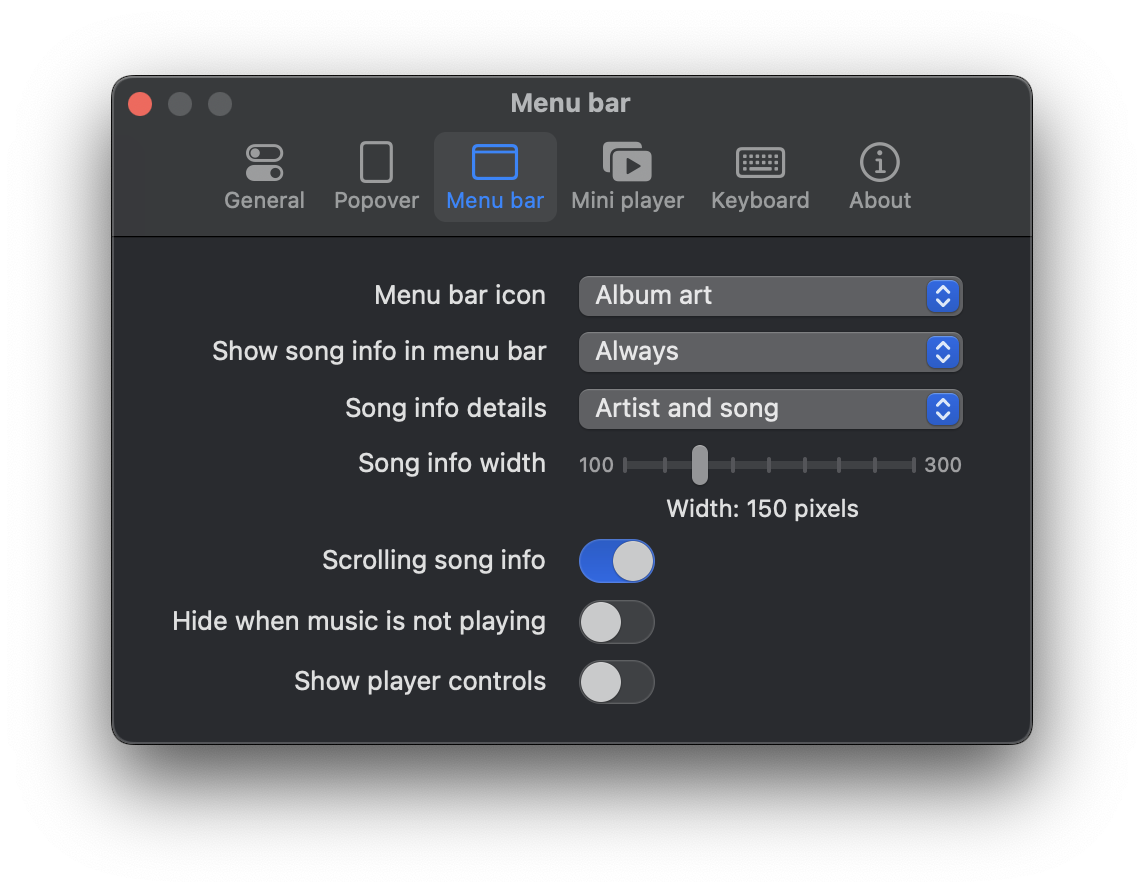
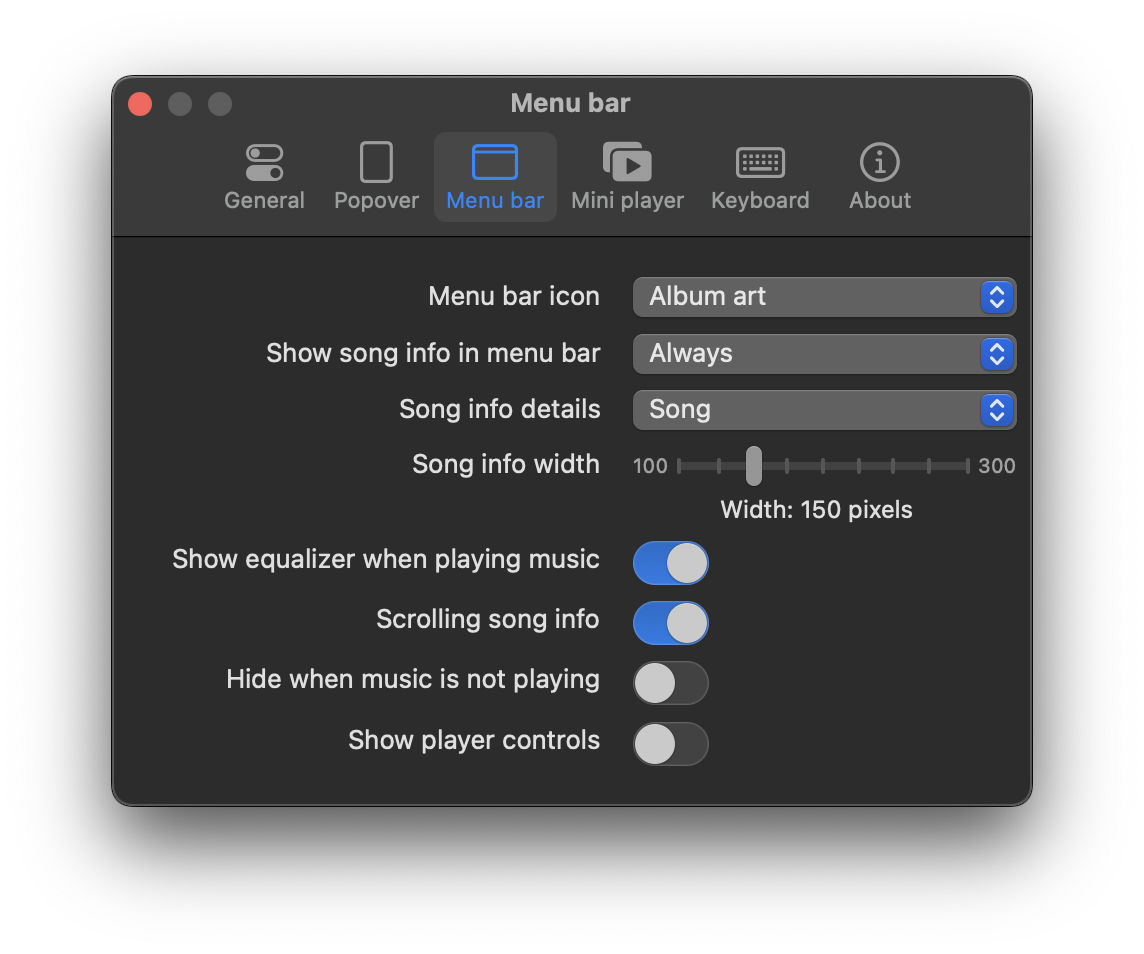
New keyboard shortcut, fixed EQ animation, updated readme

diff --git a/Tuneful/Tuneful.swift b/Tuneful/Tuneful.swift
@@ -209,6 +209,10 @@ class AppDelegate: NSObject, NSApplicationDelegate, NSMenuDelegate {
         KeyboardShortcuts.onKeyUp(for: .changeMusicPlayer) {
             self.changeMusicPlayer()
         }
+        
+        KeyboardShortcuts.onKeyUp(for: .toggleMenuBarItemVisibility) {
+            self.toggleMenuBarItemVisibilityFromShortcut()
+        }
     }
     
     // MARK: - Menu bar
@@ -328,12 +332,7 @@ class AppDelegate: NSObject, NSApplicationDelegate, NSMenuDelegate {
             button.frame = menuBarView.frame
         }
         
-        if hideMenuBarItemWhenNotPlaying && (!playerManager.isRunning || !playerManager.isPlaying) {
-            self.statusBarItem.isVisible = false
-        } else {
-            self.statusBarItem.isVisible = true
-        }
-        
+        self.toggleMenuBarItemVisibility()
         self.statusBarPlaybackManager.updateStatusBarPlaybackItem(playerAppIsRunning: playerAppIsRunning)
         self.statusBarPlaybackManager.toggleStatusBarVisibility()
     }
@@ -344,6 +343,10 @@ class AppDelegate: NSObject, NSApplicationDelegate, NSMenuDelegate {
         } else {
             self.statusBarItem.isVisible = true
         }
+    }
+    
+    @objc func toggleMenuBarItemVisibilityFromShortcut() {
+        self.statusBarItem.isVisible = !self.statusBarItem.isVisible
     }
     
     @objc func menuBarPlaybackControls() {

diff --git a/Tuneful/Views/AudioSpectrumView.swift b/Tuneful/Views/AudioSpectrumView.swift
@@ -42,8 +42,7 @@ class AudioSpectrum: NSView {
             barLayer.position = CGPoint(x: xPosition + barWidth / 2, y: totalHeight / 2)
             barLayer.fillColor = NSColor.white.cgColor
             
-            let randomHeight = CGFloat.random(in: 0.65 ... 0.95) * totalHeight
-            let path = NSBezierPath(roundedRect: CGRect(x: 0, y: CGFloat.random(in: 0.5 ... 3.5), width: barWidth, height: randomHeight),
+            let path = NSBezierPath(roundedRect: CGRect(x: 0, y: CGFloat.random(in: 0.5 ... 3.5), width: barWidth, height: totalHeight),
                                     xRadius: barWidth / 2,
                                     yRadius: barWidth / 2)
             let cgPath = CGMutablePath()

diff --git a/Tuneful/Views/Settings/KeyboardShortcutSettingsView.swift b/Tuneful/Views/Settings/KeyboardShortcutSettingsView.swift
@@ -20,6 +20,7 @@ struct KeyboardShortcutsSettingsView: View {
                         KeyboardShortcuts.Recorder("Previous track:", name: .previousTrack)
                         KeyboardShortcuts.Recorder("Toggle mini player:", name: .showMiniPlayer)
                         KeyboardShortcuts.Recorder("Switch music player:", name: .changeMusicPlayer)
+                        KeyboardShortcuts.Recorder("Show/hide menu bar player:", name: .toggleMenuBarItemVisibility)
                     }
                     .frame(maxWidth: .infinity, alignment: .center)
                 })

diff --git a/Tuneful/Views/OnboardingView.swift b/Tuneful/Views/OnboardingView.swift
@@ -195,6 +195,7 @@ struct Shortcuts: View {
                     KeyboardShortcuts.Recorder("Next track:", name: .previousTrack)
                     KeyboardShortcuts.Recorder("Toggle mini player:", name: .showMiniPlayer)
                     KeyboardShortcuts.Recorder("Switch music player:", name: .changeMusicPlayer)
+                    KeyboardShortcuts.Recorder("Show/hide menu bar player:", name: .toggleMenuBarItemVisibility)
                 }
                 .frame(maxWidth: .infinity, alignment: .center)
                 

diff --git a/Tuneful/ViewModels/StatusBarItemManager.swift b/Tuneful/ViewModels/StatusBarItemManager.swift
@@ -31,7 +31,7 @@ class StatusBarItemManager: ObservableObject {
         
         let mainView = HStack(spacing: 7) {
             if self.statusBarIcon != .hidden || titleWidth == 0 { // Should display icon when there is no menubar text
-                image.frame(width: 18, height: 18).padding(.trailing, 2)
+                image.frame(width: 18, height: 18)
             }
             
             if scrollingTrackInfo && titleWidth != 0 && playerAppIsRunning {

diff --git a/Tuneful/Extensions/KeyboardShortcuts+Extension.swift b/Tuneful/Extensions/KeyboardShortcuts+Extension.swift
@@ -13,4 +13,5 @@ extension KeyboardShortcuts.Name {
     static let playPause = Self("playPause")
     static let showMiniPlayer = Self("showMiniPlayer")
     static let changeMusicPlayer = Self("changeMusicPlayer")
+    static let toggleMenuBarItemVisibility = Self("toggleMenuBarItemVisibility")
 }

diff --git a/README.md b/README.md
@@ -22,6 +22,10 @@
 
 ## Installation
 
+> [!WARNING]
+> This app has not been notarized by Apple and a popup will be shown on first start. Click **Okay**, then go to **Settings > Privacy & Security** and scroll down until you see a button **Open anyway**. You'll have to do this once.
+> If you're running macOS older than Sequoia, right-click on the app icon in Finder and select "Open".
+
 ### Tuneful can be installed using standard installation process
 
 1. Download the latest [releases](https://github.com/martinfekete10/Tuneful/releases/latest/download/Tuneful.dmg)
@@ -31,9 +35,6 @@
 ### Or using Homebrew
 
 `brew install martinfekete10/tap/tuneful`
-
-> [!NOTE]  
-> This app has not been notarized by Apple so a warning will appear when you launch Tuneful for the first time. To open Tuneful, right-click on the app icon in Finder and select "Open".
 
 ## Screenshots
 
@@ -63,9 +64,9 @@ If you find this app useful, consider supporting its development by [donating](h
 
 -   Project is partly based on [Jukebox](https://github.com/Jaysce/Jukebox/tree/main)
 -   This project uses [Sparkle](https://sparkle-project.org) for update delivery
--   This project makes use of [LaunchAtLogin](https://github.com/sindresorhus/LaunchAtLogin)
+-   Launch at login is enabled by [LaunchAtLogin](https://github.com/sindresorhus/LaunchAtLogin) package
 -   GitHub Actions are based on repo from [Alex Perathoner](https://github.com/AlexPerathoner/SparkleReleaseTest)
--   Settings window is using [Settings](https://github.com/sindresorhus/Settings) Swift package
+-   For Settings, the project uses [Settings](https://github.com/sindresorhus/Settings) package
 
 ---
 

diff --git a/release_notes.md b/release_notes.md
@@ -1,6 +1,14 @@
+# 1.6.3 - Various smaller features and bug fixes
+
+-   New option to show animated equaliser in menubar (instead of albumart/app icon) when music is playing
+-   New ability to add keyboard shortcut to show/hide menu bar item
+-   New option to disable popover window altogether - when enabled, music player will be opened insted of the popover window
+-   Fixed bug with scrolling Open Apple Music text when Apple Music is quit
+-   Smaller under the hood improvements
+
 # 1.6.2 - Fixed blank window on launch
 
--  Fixed opening a blank window when starting Tuneful
+-   Fixed opening a blank window when starting Tuneful
 
 # 1.6.1 - Option to disable scrolling menu bar text
 
